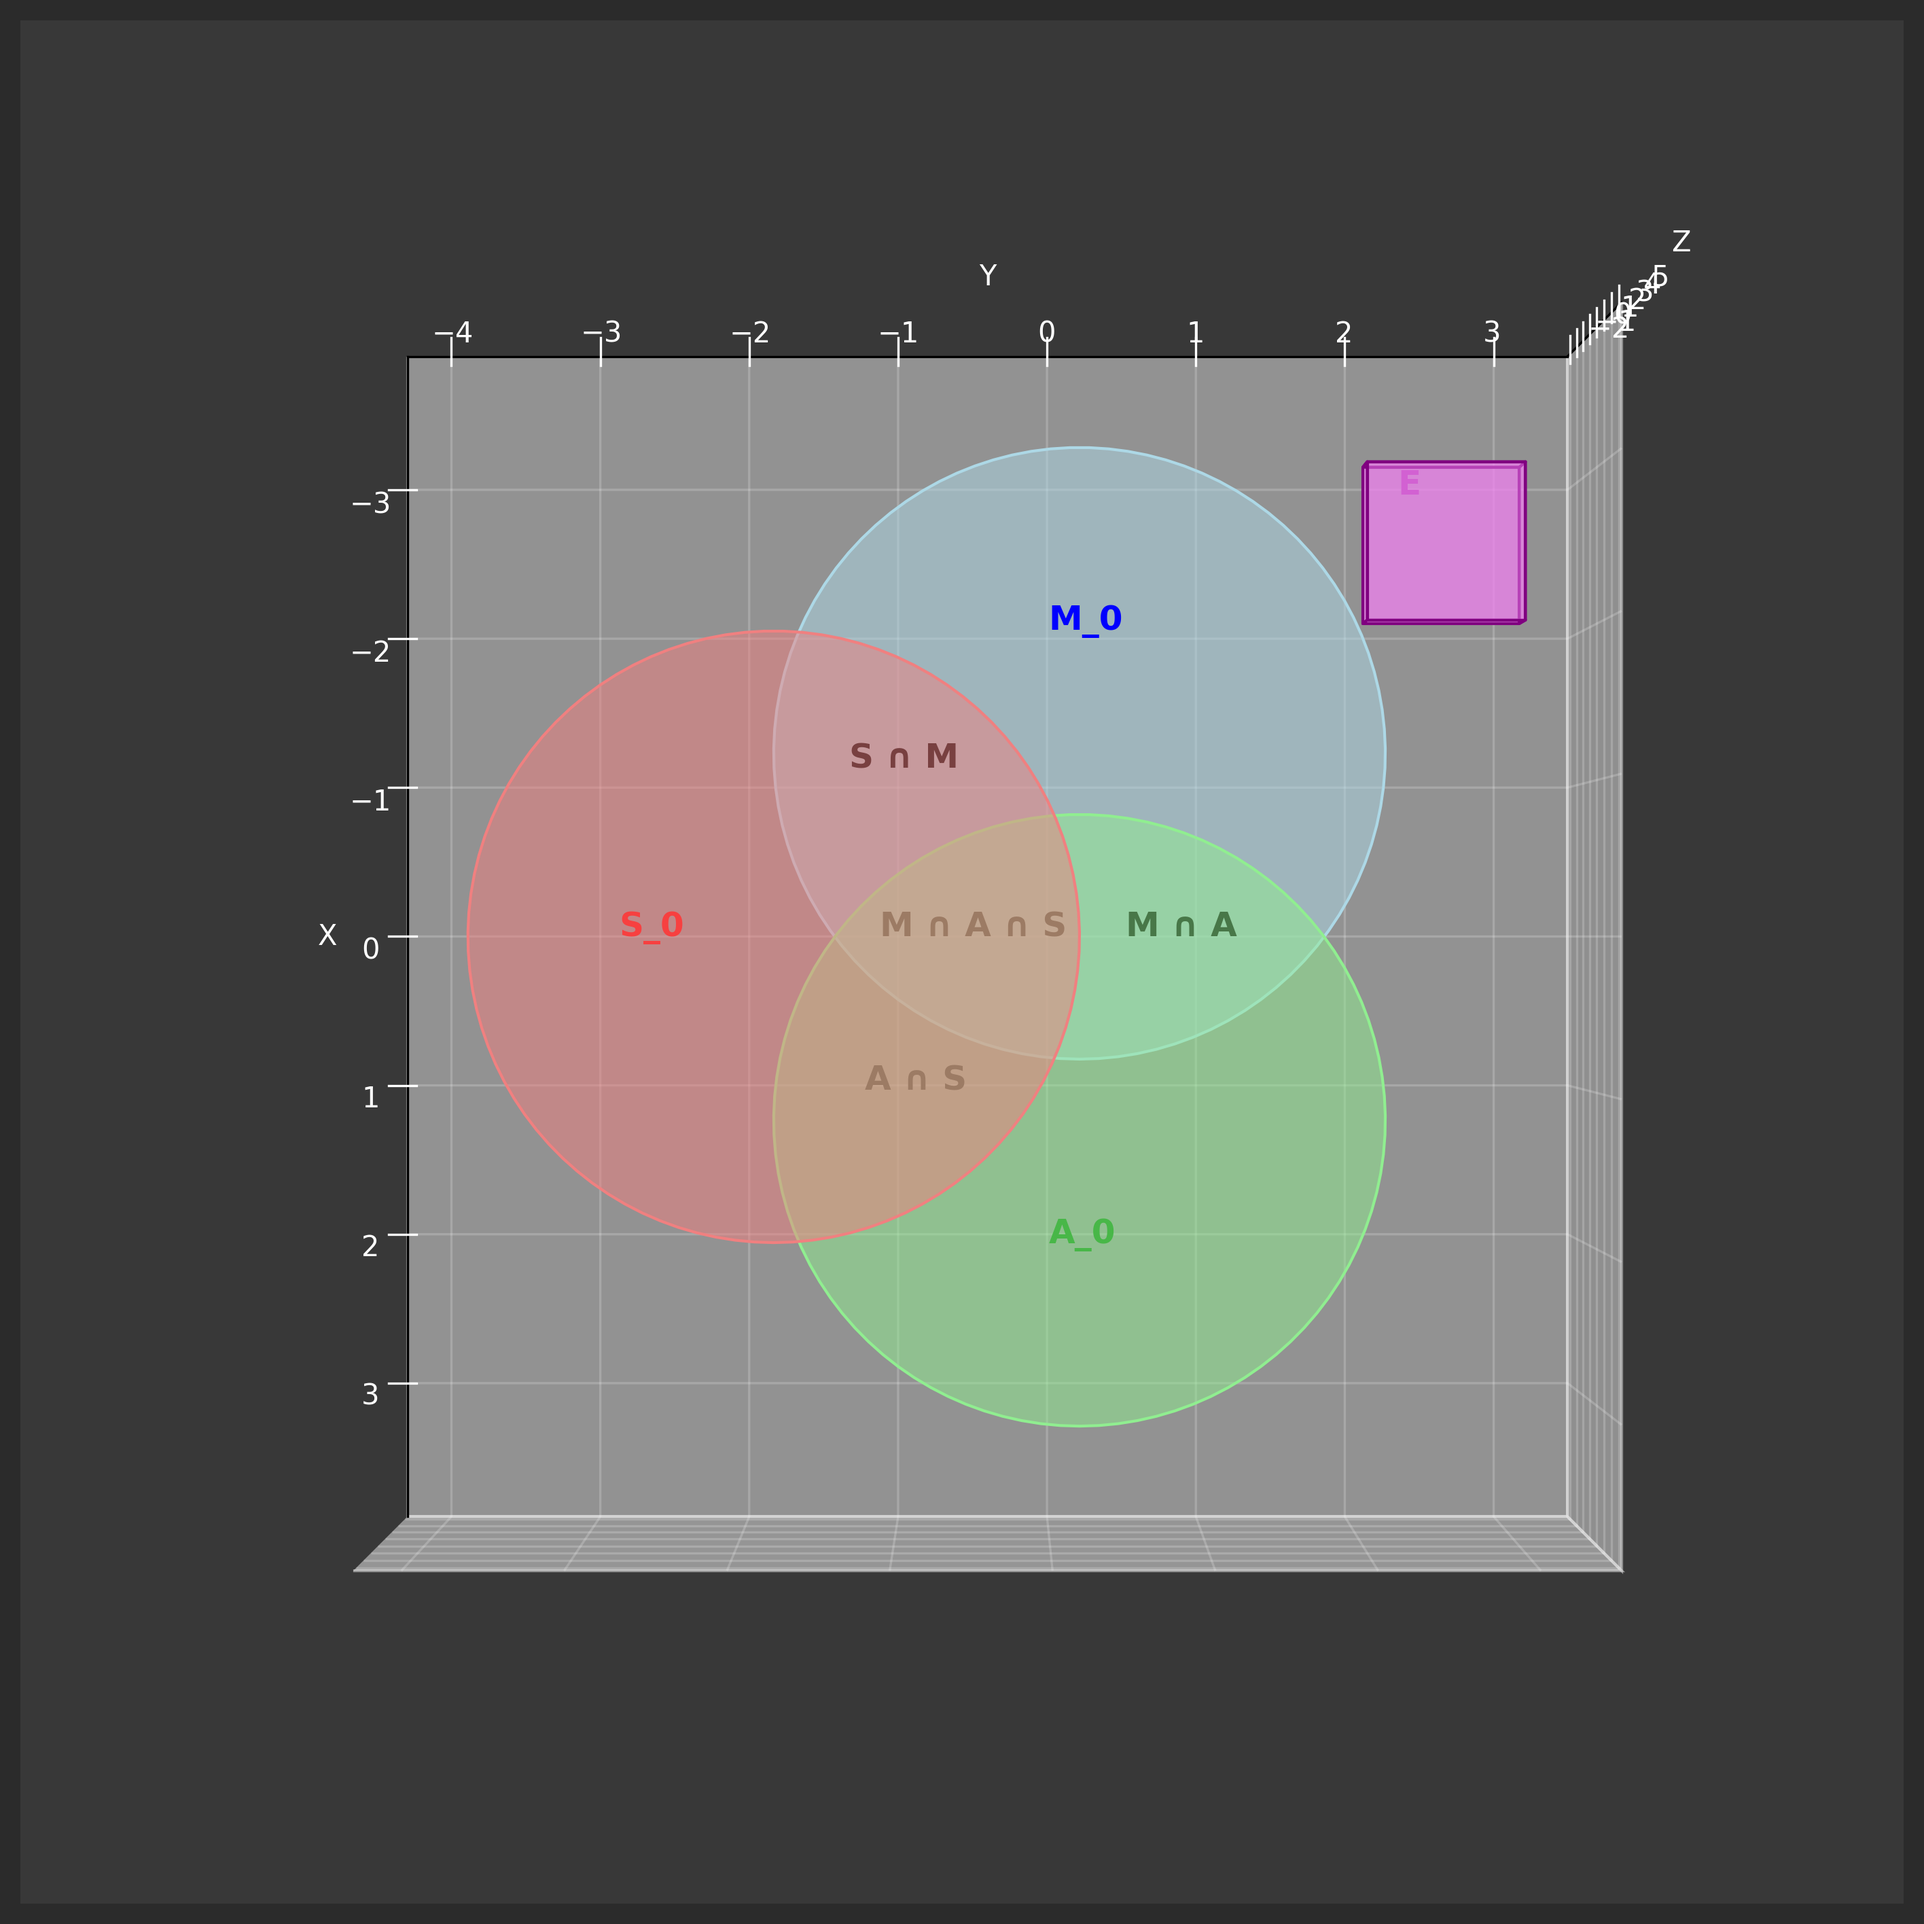
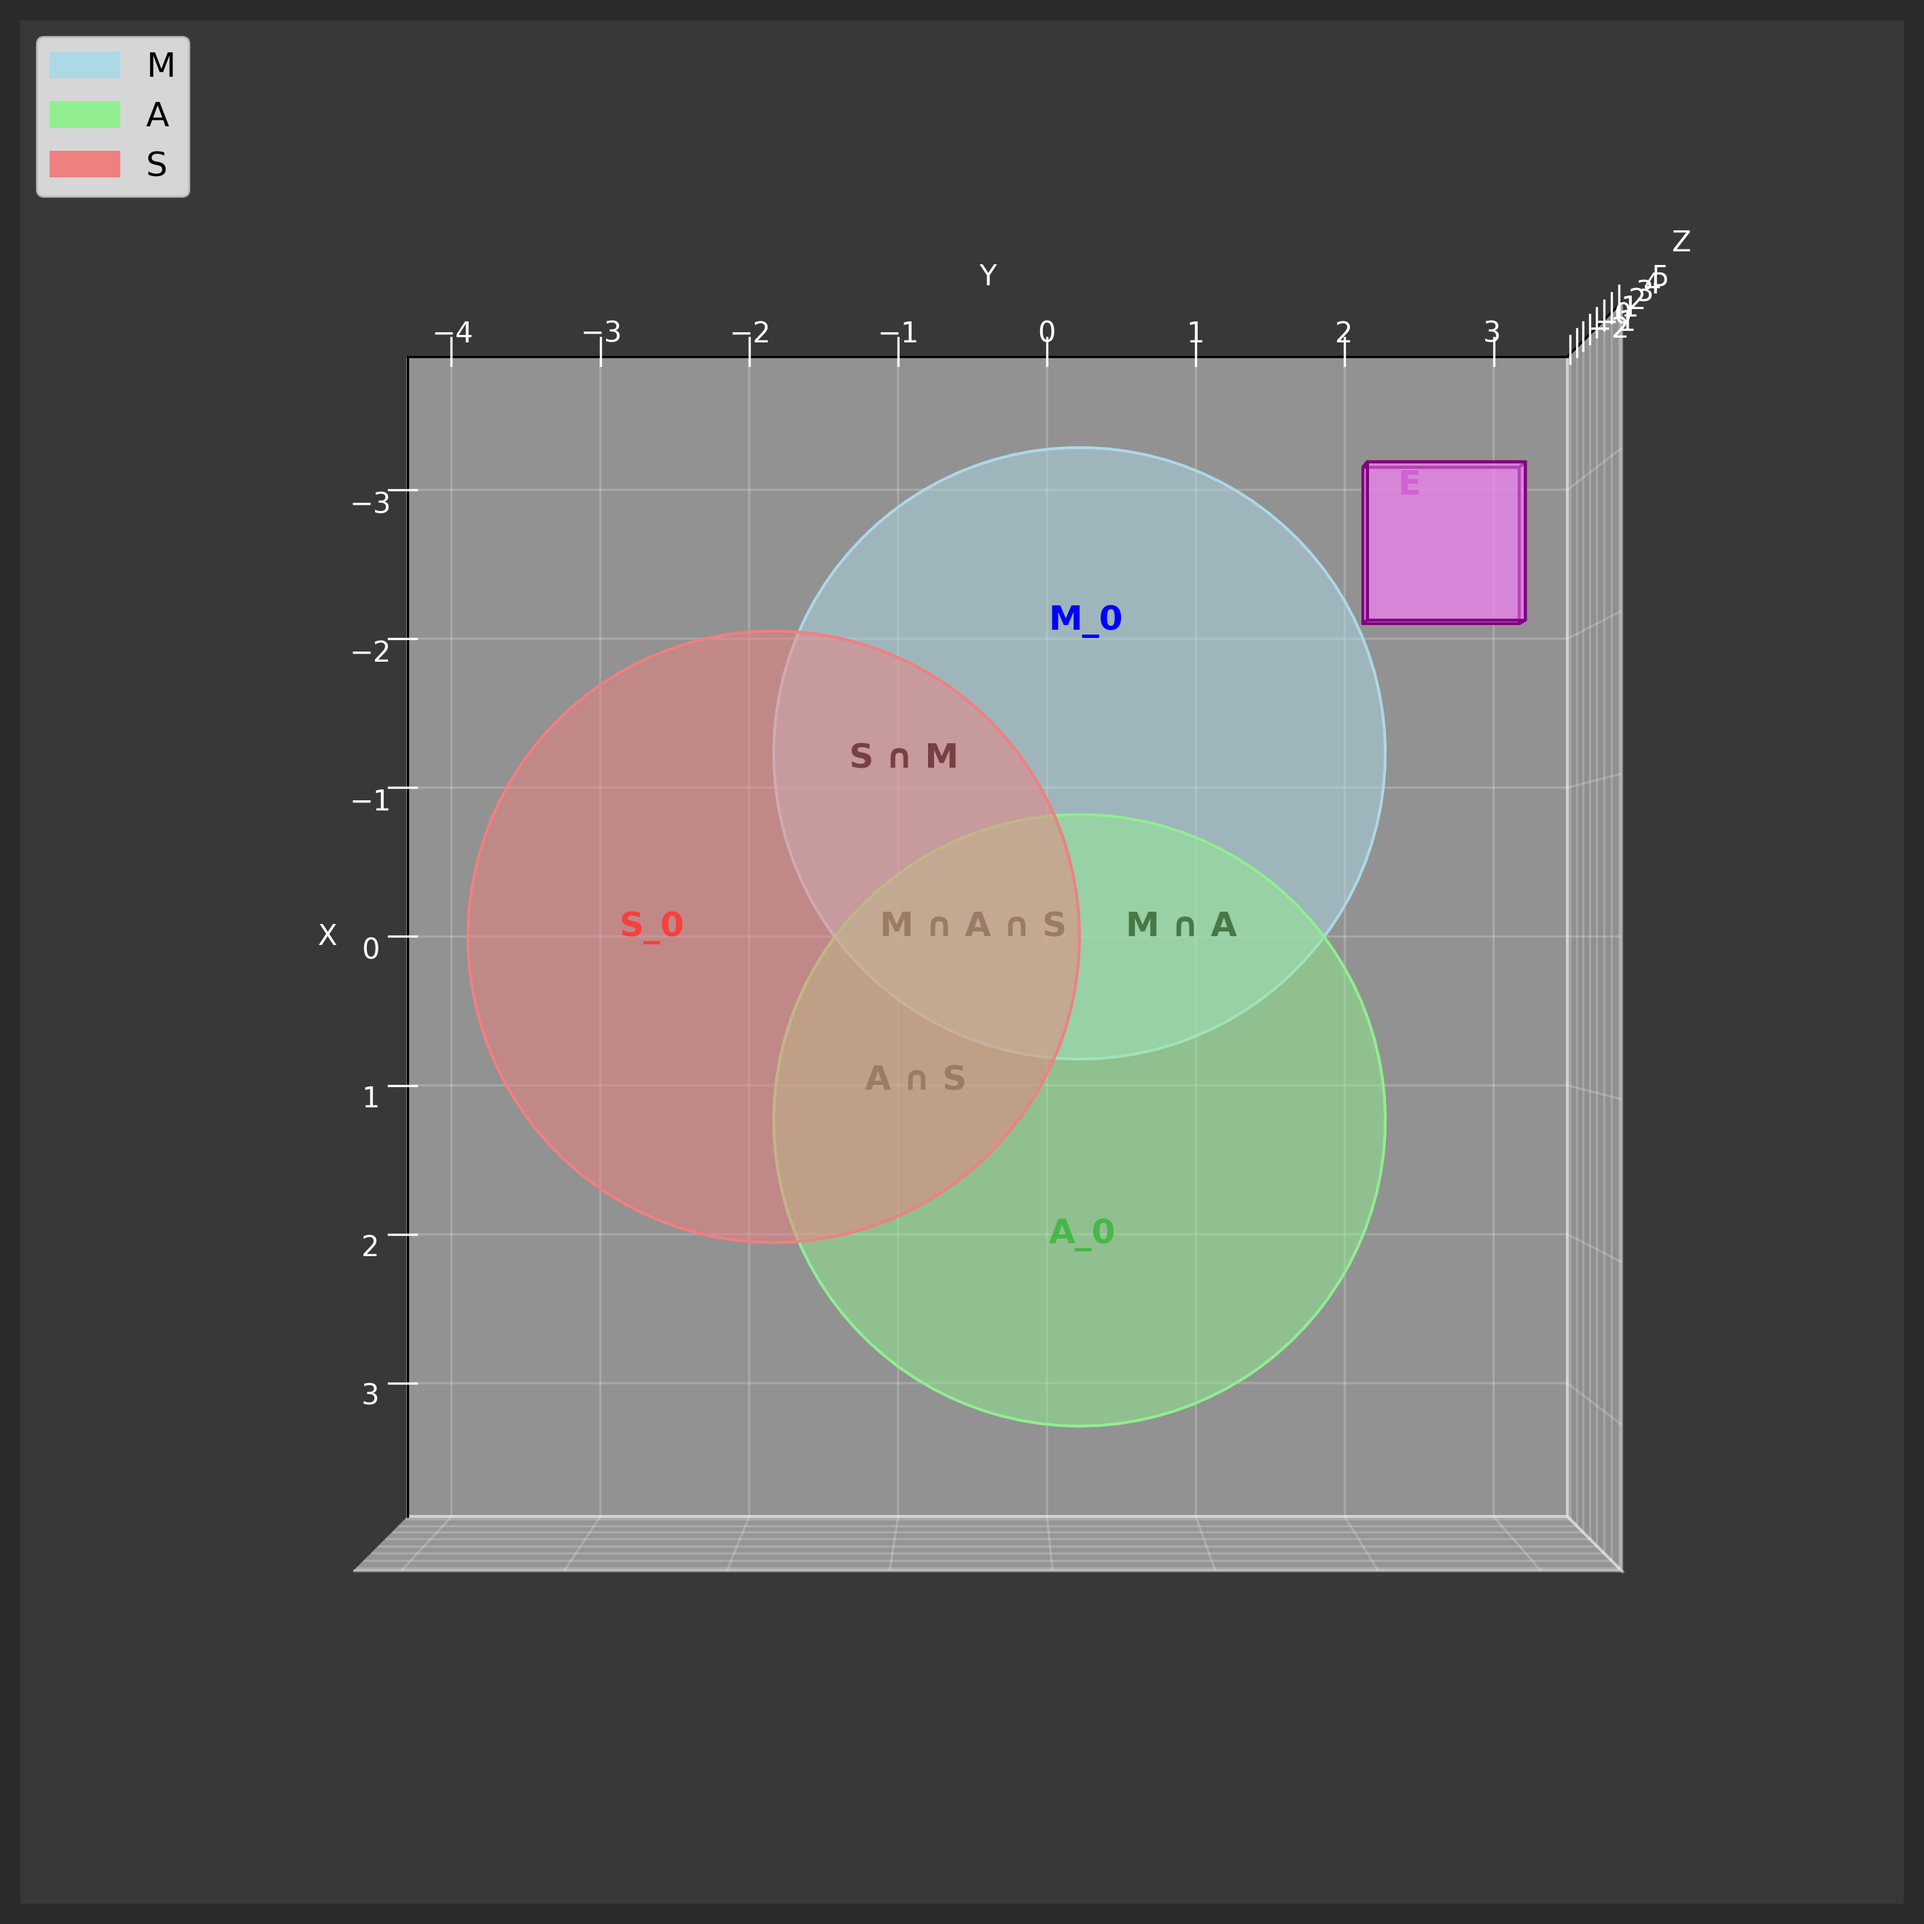
added legend

Changed region(s): [[0.0, 0.0, 0.1243, 0.1243]]

diff --git a/plot.py b/plot.py
@@ -1,6 +1,8 @@
 import numpy as np
 import matplotlib.pyplot as plt
 from mpl_toolkits.mplot3d.art3d import Poly3DCollection, Line3DCollection
+import matplotlib.patches as mpatches
+
 
 def plot_filled_circle(ax, center, radius, plane='xy', color='blue', alpha=0.5):
     """
@@ -136,6 +138,10 @@ ax.set_xlabel('X')
 ax.set_ylabel('Y')
 ax.set_zlabel('Z')
 
+blue_patch = mpatches.Patch(color='lightblue', label='M')
+green_patch = mpatches.Patch(color='lightgreen', label='A')
+red_patch = mpatches.Patch(color='lightcoral', label='S')
+plt.legend(handles=[blue_patch, green_patch, red_patch], loc='upper left', fontsize=12)
 
 plt.savefig('taxonomy.png', dpi=300, bbox_inches='tight')
 ax.view_init(elev=90, azim=0)
